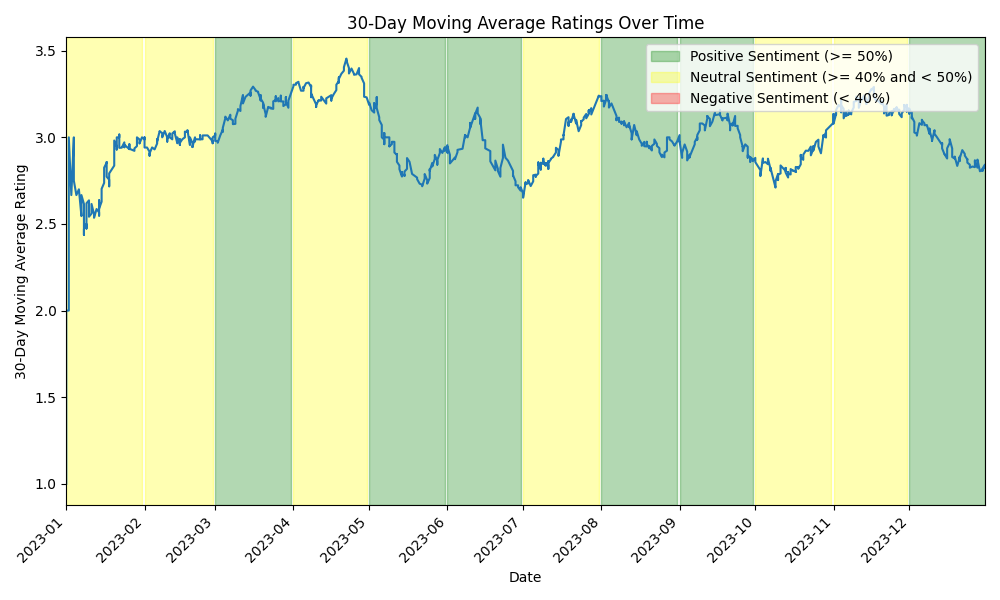
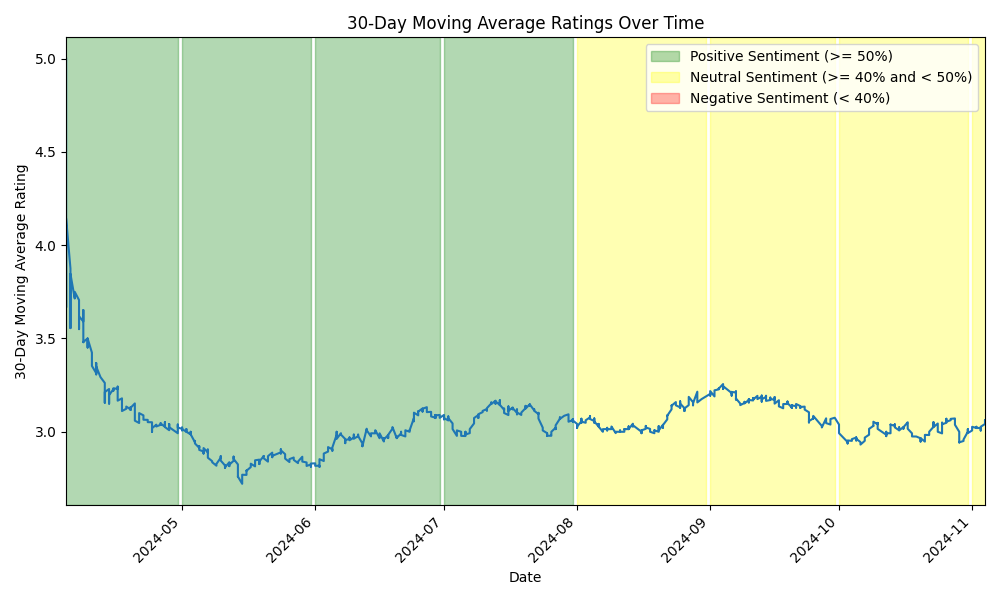
Dynamic static data generation

diff --git a/Templates/index.html b/Templates/index.html
@@ -7,6 +7,27 @@
 </head>
 <body>
     <h1>Ratings Plot</h1>
-    <img src="{{ url_for('static', filename='ratings_plot.png') }}" alt="Ratings Plot">
+    
+    <!-- Form to input parameters -->
+    <form action="/generate_plot" method="post">
+        <label for="start_date">Start Date:</label>
+        <input type="date" id="start_date" name="start_date" required><br><br>
+        
+        <label for="end_date">End Date:</label>
+        <input type="date" id="end_date" name="end_date" required><br><br>
+        
+        <label for="num_reviews">Number of Reviews:</label>
+        <input type="number" id="num_reviews" name="num_reviews" min="1" value="1000" required><br><br>
+        
+        <label for="window_size">Moving Average Window Size:</label>
+        <input type="number" id="window_size" name="window_size" min="1" value="14" required><br><br>
+        
+        <input type="submit" value="Generate Plot">
+    </form>
+    
+    <!-- Display the generated plot -->
+    {% if plot_img %}
+        <img src="{{ url_for('static', filename=plot_img) }}" alt="Ratings Plot">
+    {% endif %}
 </body>
 </html>

diff --git a/Start.py b/Start.py
@@ -1,5 +1,5 @@
-from flask import Flask, render_template
-import  random
+from flask import Flask, render_template, request
+import random
 import datetime
 import pandas as pd
 import matplotlib.pyplot as plt
@@ -13,61 +13,59 @@ def random_date(start_date, end_date):
     random_days = random.randint(0, delta.days)
     return start_date + datetime.timedelta(days=random_days)
 
-# Define start and end dates for the reviews
-start_date = datetime.date(2023, 1, 1)
-end_date = datetime.date(2023, 12, 31)
-
-# Generate 1000 reviews
-reviews = []
-for _ in range(1000):
-    # Generate random date within the defined range
-    date = random_date(start_date, end_date)
-    
-    # Generate random rating (between 1 and 5)
-    rating = random.randint(1, 5)
-    
-    # Generate random review text
-    review = "This is a sample review."
-    
-    # Assign positive or negative sentiment randomly
-    sentiment = random.choice([1, 0])
-    
-    # Append review to the list
-    reviews.append({'date': date, 'rating': rating, 'review': review, 'sentiment': sentiment})
-
-# Assuming 'reviews' is your dataset containing reviews
-review = pd.DataFrame(reviews)
-review['date'] = pd.to_datetime(review['date'])
-review.set_index('date', inplace=True)
-
-# Sort the DataFrame by the date index in ascending order
-review.sort_index(inplace=True)
-
-# Calculate the 2-week moving average of ratings
-ratings_2_weeks_ma = review['rating'].rolling(window='30D').mean()
-
-# Calculate the 1-month rolling sum of positive sentiment (1) and total sentiment
-sentiment_1_month_sum = review['sentiment'].rolling(window='30D').sum()
-total_sentiment_1_month = review['sentiment'].rolling(window='30D').count()
-
-# Resample sentiment_1_month_sum to the end of each month and take the last value
-last_sentiment_monthly_sum = sentiment_1_month_sum.resample('M').last()
-
-# Resample total_sentiment_1_month to the end of each month and take the last value
-last_total_sentiment_monthly_count = total_sentiment_1_month.resample('M').last()
-
-# Calculate the percentage of positive sentiment within each 1-month window
-percentage_positive_sentiment = (last_sentiment_monthly_sum / last_total_sentiment_monthly_count) * 100
 @app.route('/')
 def index():
+    return render_template('index.html')
+
+@app.route('/generate_plot', methods=['POST'])
+def generate_plot():
+    # Get form inputs
+    start_date = datetime.datetime.strptime(request.form['start_date'], '%Y-%m-%d').date()
+    end_date = datetime.datetime.strptime(request.form['end_date'], '%Y-%m-%d').date()
+    num_reviews = int(request.form['num_reviews'])
+    window_size = int(request.form['window_size'])
+
+    # Generate random reviews
+    reviews = []
+    for _ in range(num_reviews):
+        date = random_date(start_date, end_date)
+        rating = random.randint(1, 5)
+        review = "This is a sample review."
+        sentiment = random.choice([1, 0])
+        reviews.append({'date': date, 'rating': rating, 'review': review, 'sentiment': sentiment})
+
+    # Convert reviews to DataFrame
+    review_df = pd.DataFrame(reviews)
+    review_df['date'] = pd.to_datetime(review_df['date'])
+    review_df.set_index('date', inplace=True)
+
+    # Sort DataFrame by date index
+    review_df.sort_index(inplace=True)
+
+    # Calculate 2-week moving average of ratings
+    ratings_2_weeks_ma = review_df['rating'].rolling(window=f'{window_size}D').mean()
+
+    # Calculate 1-month rolling sum of positive sentiment (1) and total sentiment
+    sentiment_1_month_sum = review_df['sentiment'].rolling(window='30D').sum()
+    total_sentiment_1_month = review_df['sentiment'].rolling(window='30D').count()
+
+    # Resample sentiment_1_month_sum to the end of each month and take the last value
+    last_sentiment_monthly_sum = sentiment_1_month_sum.resample('M').last()
+
+    # Resample total_sentiment_1_month to the end of each month and take the last value
+    last_total_sentiment_monthly_count = total_sentiment_1_month.resample('M').last()
+
+    # Calculate the percentage of positive sentiment within each 1-month window
+    percentage_positive_sentiment = (last_sentiment_monthly_sum / last_total_sentiment_monthly_count) * 100
+
     # Plot the 2-week moving average ratings over time
     plt.figure(figsize=(10, 6))
     ratings_2_weeks_ma.plot(linestyle='-')
-    plt.title('30-Day Moving Average Ratings Over Time')
+    plt.title(f'{window_size}-Day Moving Average Ratings Over Time')
     plt.xlabel('Date')
-    plt.ylabel('30-Day Moving Average Rating')
+    plt.ylabel(f'{window_size}-Day Moving Average Rating')
     plt.xticks(rotation=45)
-    plt.xlim(review.index.min(), review.index.max())  # Set x-axis limits to the minimum and maximum dates
+    plt.xlim(review_df.index.min(), review_df.index.max())
 
     legend_patches = [
         Patch(color='green', alpha=0.3, label='Positive Sentiment (>= 50%)'),
@@ -83,11 +81,11 @@ def index():
     plt.tight_layout()
     
     # Save the plot as an image
-    plt.savefig('static/ratings_plot.png')  # Save the plot as a static image file
-    plt.close()  # Close the plot to free memory
-    
+    plt.savefig('static/ratings_plot.png')
+    plt.close()
+
     # Render the template with the plot
-    return render_template('index.html')
+    return render_template('index.html', plot_img='ratings_plot.png')
 
 if __name__ == '__main__':
     app.run(debug=True)
